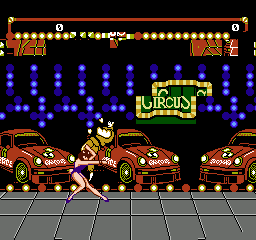
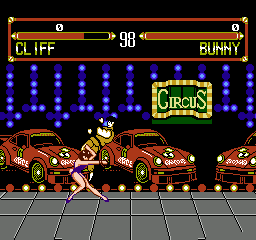
test(coverage): re-bless the one ROM T-MMC3-BG-A12 moves, a fix
The local commercial suites, run on the final state of this branch:
- `external_real_games`: 60 passed, 0 failed;
- `external_extended`: 137 passed, 0 failed;
- `external_coverage`: 1 of 744 staged ROMs moved.

The ROM that moved is *Super New Year Cart 15-in-1* (Hummer Team), mapper
45 GA23C, an MMC3-based multicart. Its snapshot changes in four fields:
- cycles 33,949,780 -> 33,949,777;
- the audio hash;
- both framebuffer checkpoints, f900 and f1100.

The two checkpoint frames were rendered on both sides: the release tip
(which reproduces the committed baseline, 6/6) and this branch. On the
old code the fighting game's status bar is torn at a raster split, and
the "CIRCUS" sign is cut through mid-row. On this branch the HUD draws
whole, with both health bars, CLIFF / BUNNY and the round timer, and the
sign is intact. That is an MMC3 IRQ split landing on the right scanline
with the background at $1000, which is this ticket's subject. So the
move is a correction, not a regression. The differing rows are 31-190.

The committed screenshot was byte-identical to the old final frame; it
is replaced with the new one. Only this ROM was re-blessed
(RUSTYNES_COVERAGE_FILTER), and a re-run with INSTA_UPDATE=no passes
6/6. The `assertion_line` field is dropped by the current insta.

Also on this commit:
- CHANGELOG [Unreleased] names the game, and softens "that is why the
  MMC3 page says..." to "consistent with". The causal link was inferred,
  not measured.
[…]

diff --git a/CHANGELOG.md b/CHANGELOG.md
@@ -34,12 +34,15 @@ cycle-accurate core later replaced.
   their read dots, two dots after the MMC3 page's "PPU cycle 324". And a
   visible line's dot 0 drives "the same CHR address that is later used to
   fetch the low background tile byte" (the PPU rendering page), except scanline
-  0's on an odd frame, which the skipped dot replaces with a nametable fetch;
-  that is why the MMC3 page says the counter "decrement[s] twice every other
-  vertical redraw". blargg's `4-scanline_timing` now passes all 13 sub-tests
-  on both ROMs (it failed at sub-test 9). Nothing changes with the background
-  at `$0000`, the arrangement almost every MMC3 game uses. Save states:
-  `PPU_SNAPSHOT_VERSION` 12, and older states are refused.
+  0's on an odd frame, which the skipped dot replaces with a nametable fetch,
+  consistent with the MMC3 page's counter that can "decrement twice every
+  other vertical redraw". blargg's `4-scanline_timing` now passes all 13
+  sub-tests on both ROMs (it failed at sub-test 9). Nothing changes with the
+  background at `$0000`, the arrangement almost every MMC3 game uses. Of 744
+  staged commercial ROMs one moved: the fighting game on *Super New Year Cart
+  15-in-1* (mapper 45), whose status bar was torn at a raster split and now
+  draws whole. Save states: `PPU_SNAPSHOT_VERSION` 12, and older states are
+  refused.
 
 ## [2.9.9] - 2026-10-04 - "Ballast" (the release candidate: the audits re-run, MMC3 and MMC5 by their documentation, audio exact across save states, and the MiSTer core moved onto it)
 

diff --git a/to-dos/ROADMAP.md b/to-dos/ROADMAP.md
@@ -1111,9 +1111,12 @@ has the evidence.
 sub-tests. Before it lands:
 
 - [ ] Rebase onto `main` after the v2.9.9 merge.
-- [ ] The local commercial suites, every moved snapshot attributed. Boards
-      that count raw A12 edges (MC-ACC, mapper 91, the J.Y. ASIC) see the
-      background's edges earlier when it is at `$1000`, plus a dot-0 edge.
+- [x] The local commercial suites (2026-10-05, on this branch's final state):
+      `external_real_games` 60/0, `external_extended` 137/0, and
+      `external_coverage` 1 of 744 moved. That one is *Super New Year Cart
+      15-in-1* (mapper 45): cycles -3, and its status bar, torn at a raster
+      split on the old code, now draws whole (frames 900 and 1100 compared side
+      by side). Re-blessed with its screenshot. Re-run after the rebase.
 - [ ] The `.rns` epoch: `PPU_SNAPSHOT_VERSION` 12 refuses v11 states; record it
       in v3.0.0's notes with the other breaks.
 - [x] Sibling RTL: branch `fix/ppu-a12-mmc3` (2026-10-05). Only the dot-0 rule
